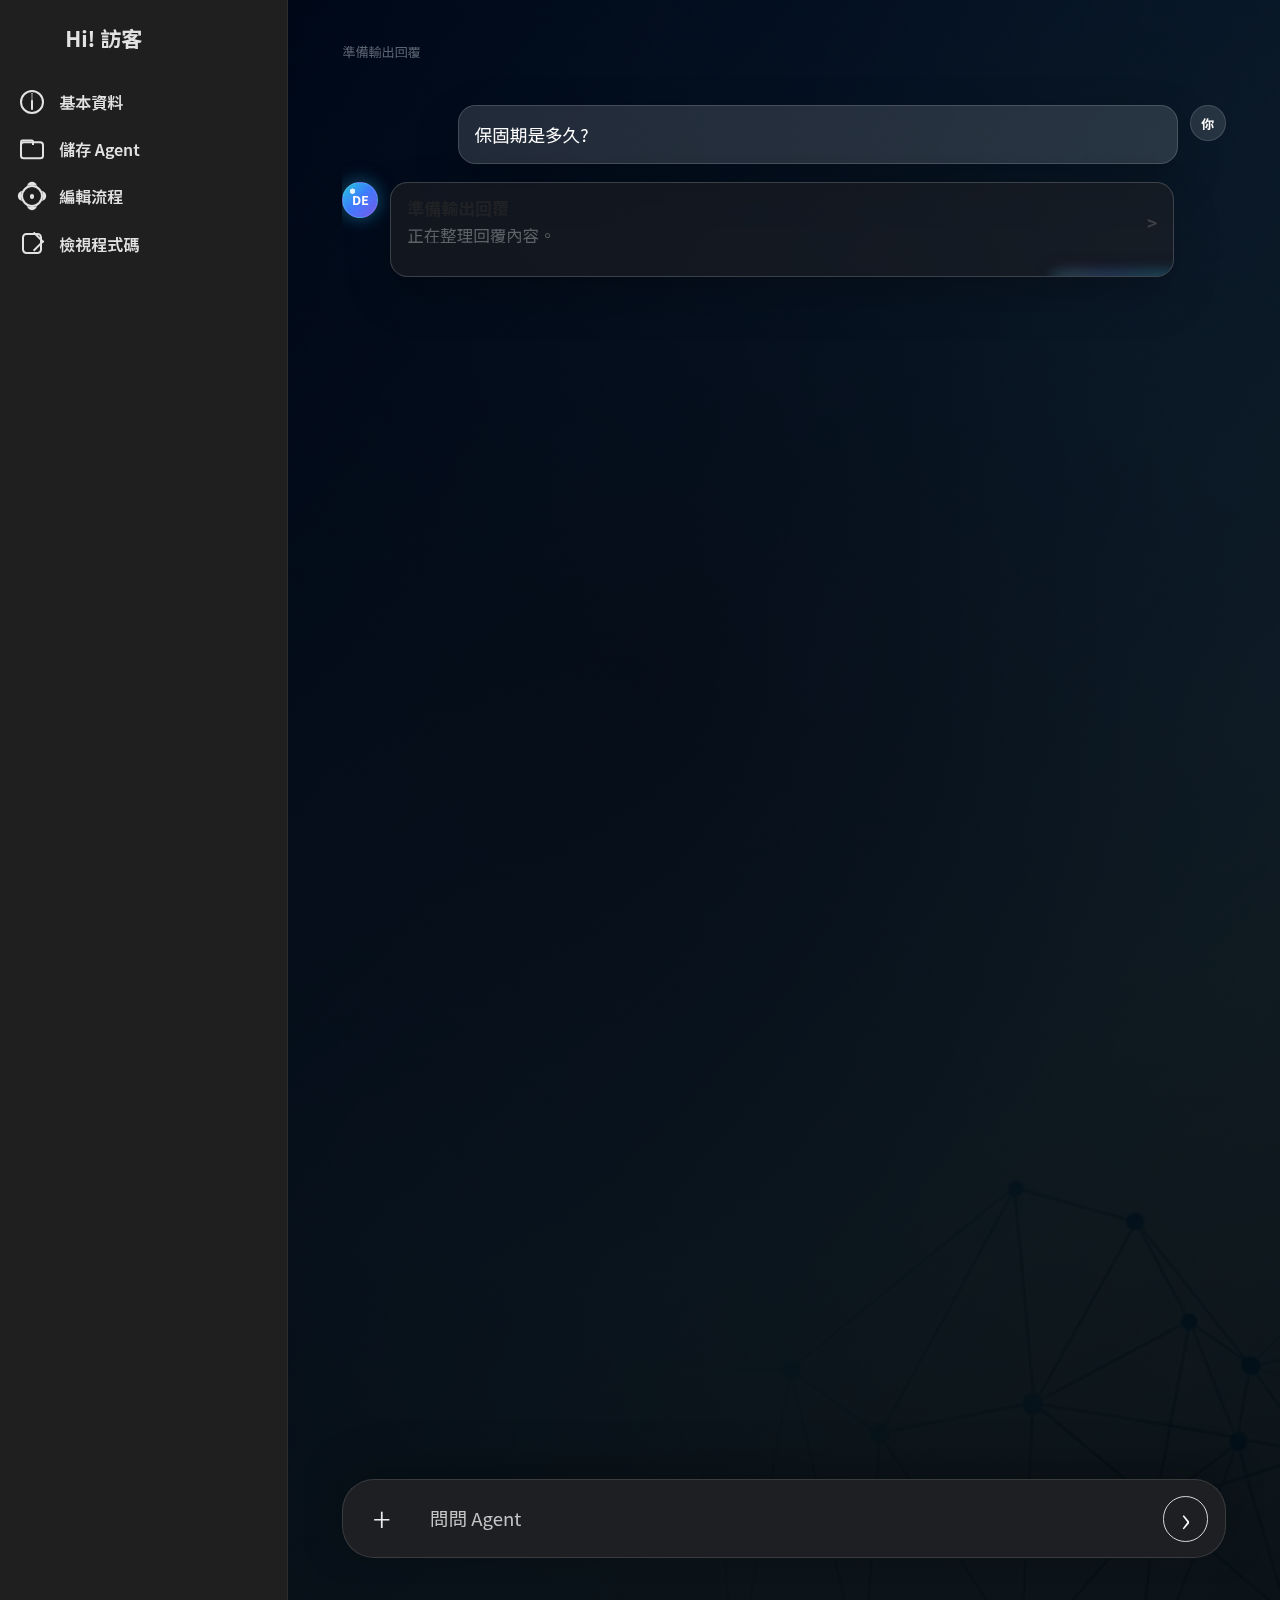
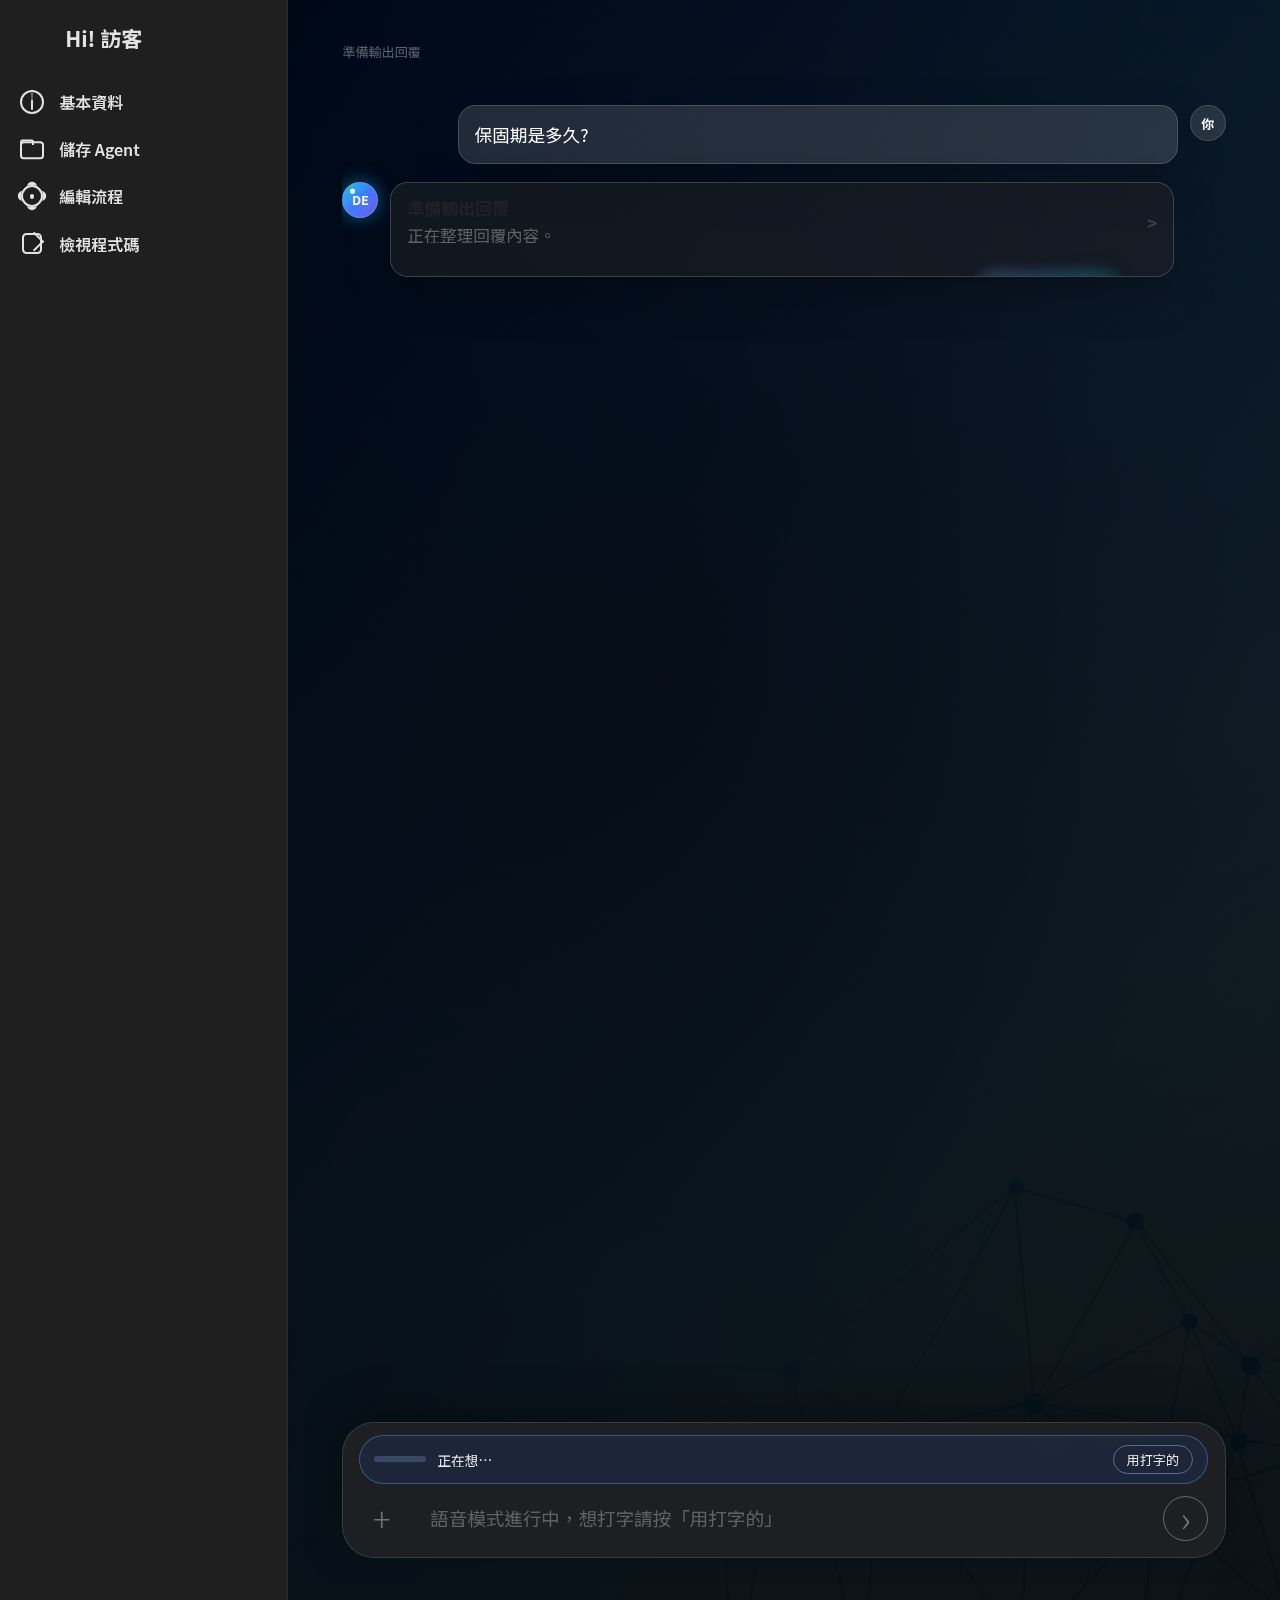
Show the person that the page is listening, and never both at once
The runner looked exactly like a text agent: the composer said 問問 Agent and
the microphone was live behind it, so nothing told anyone the feature existed
and nothing stopped a typed message racing a spoken one.

Following the shape of advanced voice: voice is a mode with a visible state,
not a toggle. A bar inside the composer names what is happening — 聆聽中,
正在想…, 回答中 · 開口就能打斷, 好，我停下來聽你說 — with a level meter that
moves with the person's voice, which is how they tell a working microphone
from a stalled one. While it is live the typing row is dimmed and disabled;
用打字的 pauses the microphone and hands the keyboard back, 回到語音 returns.

A pause holds in both directions and only resume leaves it, so a late reply
cannot reopen the microphone while someone is halfway through typing.

Changed region(s): [[0.2812, 0.875, 0.9688, 0.9688], [0.875, 0.1562, 0.9062, 0.1875], [0.7812, 0.1562, 0.8125, 0.1875]]

diff --git a/playground/static/js/runner/voice-conversation.js b/playground/static/js/runner/voice-conversation.js
@@ -16,7 +16,7 @@ const TRANSCRIBE_SAMPLE_RATE = 16000;
 const SYNTHESIS_SAMPLE_RATE = 24000;
 const FRAME_SAMPLES = 1024;
 
-export function bindVoiceConversation(page, { onTranscript, onStatus }) {
+export function bindVoiceConversation(page, { onTranscript, onStatus, onState, onLevel }) {
 	if (page?.dataset.voice !== "true") {
 		return null;
 	}
@@ -27,10 +27,25 @@ export function bindVoiceConversation(page, { onTranscript, onStatus }) {
 		playing: [],
 		playheadAt: 0,
 		startedSpeakingAt: 0,
+		state: "starting",
+		paused: false,
 		carry: new Uint8Array(0),
 	};
 
 	const say = (message) => onStatus?.(message);
+	const enter = (state, detail) => {
+		if (session.paused && state !== "paused") {
+			// Only resume() leaves a pause. Anything else — a late reply, an
+			// answer finishing — would put the microphone back without the
+			// person asking, while they are halfway through typing.
+			return;
+		}
+		// One place decides what the page is showing, because a voice agent
+		// with no visible state is indistinguishable from one that is broken:
+		// the person talks, nothing happens, and nothing says why.
+		session.state = state;
+		onState?.(state, detail);
+	};
 
 	function open() {
 		const scheme = window.location.protocol === "https:" ? "wss:" : "ws:";
@@ -43,21 +58,41 @@ export function bindVoiceConversation(page, { onTranscript, onStatus }) {
 			}
 			handle(JSON.parse(event.data));
 		});
-		socket.addEventListener("close", () => say("語音連線結束了。重新整理頁面可以再開始。"));
+		socket.addEventListener("close", () => enter("closed"));
 		session.socket = socket;
 	}
 
 	function handle(message) {
+		if (session.paused && (message.type === "speech_started" || message.type === "transcript")) {
+			// Audio already in flight when the microphone was paused. Acting on
+			// it would start a turn the person did not ask for, from the middle
+			// of a sentence they abandoned.
+			return;
+		}
 		if (message.type === "speech_started") {
 			// The service heard someone begin, before it knows what they said.
+			const wasSpeaking = session.playing.length > 0;
 			stopPlaying();
+			enter(wasSpeaking ? "interrupted" : "listening");
 			return;
 		}
 		if (message.type === "transcript" && message.text) {
+			enter("heard", message.text);
 			onTranscript?.(message.text);
 			return;
 		}
-		if (message.type === "unavailable" || message.type === "nothing_to_interrupt") {
+		if (message.type === "spoken") {
+			if (!session.playing.length) {
+				enter("listening");
+			}
+			return;
+		}
+		if (message.type === "unavailable") {
+			enter("unavailable", message.message);
+			say(message.message);
+			return;
+		}
+		if (message.type === "nothing_to_interrupt") {
 			say(message.message);
 		}
 	}
@@ -69,6 +104,7 @@ export function bindVoiceConversation(page, { onTranscript, onStatus }) {
 		} catch (error) {
 			// A refusal and a missing microphone look the same from here: in both
 			// cases the page would otherwise just sit there being silent.
+			enter("denied");
 			say("這個 Agent 要用麥克風才能聽你說話。請在瀏覽器的網址列允許麥克風權限，然後重新整理頁面。你也可以直接打字。");
 			return;
 		}
@@ -94,19 +130,40 @@ export function bindVoiceConversation(page, { onTranscript, onStatus }) {
 		});
 		source.connect(meter);
 		meter.connect(context.destination);
-		say("可以開始說話了。");
+		enter("listening");
 	}
 
 	function send(samples, sampleRate) {
-		if (session.socket?.readyState !== WebSocket.OPEN) {
+		// Reported whether or not it is sent, so a paused microphone still shows
+		// the person that the page can hear them — the meter is how they tell a
+		// pause from a failure.
+		onLevel?.(loudness(samples));
+		if (session.paused || session.socket?.readyState !== WebSocket.OPEN) {
 			return;
 		}
 		session.socket.send(toServiceAudio(samples, sampleRate));
 	}
 
+	function pause() {
+		// Typing and talking must never both be live: two inputs racing produce
+		// two turns for one question, and the person sees the agent answer
+		// something they were still in the middle of saying.
+		session.paused = true;
+		stopPlaying();
+		enter("paused");
+	}
+
+	function resume() {
+		session.paused = false;
+		session.carry = new Uint8Array(0);
+		enter("listening");
+	}
+
 	function play(audio) {
 		const context = session.context;
-		if (!context) {
+		// Paused means paused in both directions. An answer that keeps talking
+		// after someone switched to the keyboard is the agent ignoring them.
+		if (!context || session.paused) {
 			return;
 		}
 		// A frame off the socket is a slice of a stream, not a whole number of
@@ -138,6 +195,7 @@ export function bindVoiceConversation(page, { onTranscript, onStatus }) {
 		const startAt = Math.max(context.currentTime, session.playheadAt);
 		if (!session.playing.length) {
 			session.startedSpeakingAt = startAt;
+			enter("speaking");
 		}
 		piece.start(startAt);
 		session.playheadAt = startAt + buffer.duration;
@@ -174,7 +232,16 @@ export function bindVoiceConversation(page, { onTranscript, onStatus }) {
 	// microphone attached.
 	listen();
 
-	return { sessionId: session.id, speak, stopPlaying };
+	return { sessionId: session.id, speak, stopPlaying, pause, resume, enter };
+}
+
+/** How loud a frame is, on the same 0-1 scale the microphone reports. */
+export function loudness(samples) {
+	let total = 0;
+	for (let index = 0; index < samples.length; index += 1) {
+		total += samples[index] * samples[index];
+	}
+	return samples.length ? Math.sqrt(total / samples.length) : 0;
 }
 
 /** Resample to the rate the transcription service takes, as 16-bit mono. */

diff --git a/playground/static/js/runner/runner-page.js b/playground/static/js/runner/runner-page.js
@@ -978,15 +978,77 @@ bindInputComposer(form, async (payload) => {
 	await runWorkflow({ ...payload, voice_session_id: voice?.sessionId || "" });
 }, { clearAttachments: () => attachmentPicker?.clear() });
 
+const voiceBar = document.querySelector("[data-voice-bar]");
+const voiceStateText = document.querySelector("[data-voice-state-text]");
+const voiceLevel = document.querySelector("[data-voice-level]");
+const voiceSwitch = document.querySelector("[data-voice-switch]");
+
+const VOICE_STATES = {
+	starting: "正在開啟麥克風…",
+	listening: "聆聽中，直接開口就好",
+	heard: "聽到了",
+	thinking: "正在想…",
+	speaking: "回答中 · 開口就能打斷",
+	interrupted: "好，我停下來聽你說",
+	paused: "麥克風已暫停 · 現在用鍵盤",
+	denied: "需要麥克風權限才能聽你說話",
+	unavailable: "這個 Playground 還沒有語音服務",
+	closed: "語音連線結束了，重新整理可以再開始",
+};
+
+function showVoiceState(state, detail) {
+	if (!voiceBar) {
+		return;
+	}
+	voiceBar.dataset.voiceState = state;
+	if (voiceStateText) {
+		voiceStateText.textContent = state === "heard" && detail ? `聽到了：「${detail}」` : VOICE_STATES[state] || state;
+	}
+	if (voiceSwitch) {
+		voiceSwitch.textContent = state === "paused" ? "回到語音" : "用打字的";
+		voiceSwitch.hidden = state === "denied" || state === "unavailable" || state === "closed";
+	}
+	// Exactly one input is live at a time. Two of them racing produces two
+	// turns for one question, and the agent answers something the person was
+	// still in the middle of saying.
+	const typing = state === "paused" || state === "denied" || state === "unavailable" || state === "closed";
+	runnerPage?.classList.toggle("is-voice-live", !typing);
+	if (messageInput) {
+		messageInput.disabled = !typing;
+		messageInput.placeholder = typing ? "問問 Agent" : "語音模式進行中，想打字請按「用打字的」";
+	}
+	if (submitButton) {
+		submitButton.disabled = !typing;
+	}
+}
+
 const voice = bindVoiceConversation(runnerPage, {
 	onTranscript: (text) => {
 		runWorkflow({ message: text, voice_session_id: voice?.sessionId || "" });
+		voice?.enter("thinking");
 	},
 	onStatus: (message) => {
 		if (runStatus) {
 			runStatus.textContent = message;
 		}
 	},
+	onState: showVoiceState,
+	onLevel: (level) => {
+		if (voiceLevel) {
+			// Scaled so ordinary speech fills most of the bar; the point is to
+			// show that something is being heard, not to be a meter.
+			voiceLevel.style.transform = `scaleX(${Math.min(1, level * 6).toFixed(3)})`;
+		}
+	},
+});
+
+voiceSwitch?.addEventListener("click", () => {
+	if (voiceBar?.dataset.voiceState === "paused") {
+		voice?.resume();
+		return;
+	}
+	voice?.pause();
+	messageInput?.focus();
 });
 
 starterQuestions?.addEventListener("click", (event) => {

diff --git a/playground/static/css/app.css b/playground/static/css/app.css
@@ -2807,6 +2807,75 @@ a { color: inherit; text-decoration: none; }
   font-weight: 700;
 }
 
+.voice-bar {
+  display: flex;
+  align-items: center;
+  gap: 0.7rem;
+  margin: 0 0 0.5rem;
+  padding: 0.55rem 0.9rem;
+  border: 1px solid rgba(120, 170, 255, 0.35);
+  border-radius: 999px;
+  background: rgba(30, 60, 110, 0.28);
+  font-size: 0.86rem;
+}
+
+.voice-orb {
+  position: relative;
+  flex: 0 0 auto;
+  width: 3.2rem;
+  height: 0.4rem;
+  overflow: hidden;
+  border-radius: 999px;
+  background: rgba(140, 180, 240, 0.25);
+}
+
+.voice-orb i {
+  display: block;
+  width: 100%;
+  height: 100%;
+  border-radius: 999px;
+  background: #6fb2ff;
+  transform: scaleX(0);
+  transform-origin: left center;
+  transition: transform 90ms linear;
+}
+
+.voice-state {
+  flex: 1 1 auto;
+}
+
+.voice-switch {
+  flex: 0 0 auto;
+  padding: 0.25rem 0.8rem;
+  border: 1px solid rgba(140, 180, 240, 0.5);
+  border-radius: 999px;
+  background: transparent;
+  color: inherit;
+  cursor: pointer;
+  font-size: 0.82rem;
+}
+
+/* Speaking and being interrupted are the two states a person needs to read at
+   a glance, so they are the two that change colour. */
+.voice-bar[data-voice-state="speaking"] { border-color: rgba(120, 220, 180, 0.6); }
+.voice-bar[data-voice-state="interrupted"] { border-color: rgba(255, 200, 120, 0.7); }
+.voice-bar[data-voice-state="paused"] { opacity: 0.6; }
+.voice-bar[data-voice-state="denied"],
+.voice-bar[data-voice-state="unavailable"] { border-color: rgba(255, 140, 140, 0.7); }
+
+/* One input at a time: while the microphone is live the typing row is not.
+   Only that row — the voice bar sits inside the composer and its button has to
+   stay clickable, since it is the way back to the keyboard. */
+.runner-page.is-voice-live .composer-main-row,
+.runner-page.is-voice-live .composer-attachment-preview {
+  opacity: 0.4;
+  pointer-events: none;
+}
+
+.voice-bar + label {
+  margin-top: 0.1rem;
+}
+
 .runner-status {
   margin: 0 0 0.4rem;
   min-height: 1.1rem;

diff --git a/playground/templates/runner.html b/playground/templates/runner.html
@@ -109,6 +109,13 @@
 
       <p class="runner-status" data-run-status role="status" aria-live="polite"></p>
       <form class="input-composer chat-composer" data-input-composer>
+        {% if uses_voice %}
+        <div class="voice-bar" data-voice-bar data-voice-state="starting">
+          <span class="voice-orb" data-voice-orb aria-hidden="true"><i data-voice-level></i></span>
+          <span class="voice-state" data-voice-state-text role="status" aria-live="polite">正在開啟麥克風…</span>
+          <button class="voice-switch" type="button" data-voice-switch>用打字的</button>
+        </div>
+        {% endif %}
         <label for="runner-message">輸入訊息</label>
         <div class="composer-attachment-preview" data-artifact-list aria-label="已選擇的參考資料"></div>
         <div class="composer-main-row">

diff --git a/tests/test_voice_builder.py b/tests/test_voice_builder.py
@@ -116,3 +116,41 @@ def test_every_deployment_a_voice_agent_needs_is_offered_on_the_page():
 
     missing = sorted(role for role in needed if f"{role}:" not in table)
     assert missing == [], f"這些角色在畫面上沒有對應的選單：{missing}"
+
+
+def test_a_voice_agent_says_on_the_page_that_it_is_listening():
+    """Without this the page is a text agent with a hidden microphone.
+
+    Two things depend on it being visible: the person can tell whether it is
+    hearing them, and the keyboard and the microphone are never both live —
+    two inputs racing produce two turns for one question.
+    """
+    from playground.app import create_app
+
+    app = create_app()
+    app.config.update(TESTING=True)
+
+    with app.test_client() as client:
+        for step, choice in [("input_type", "voice"), ("output_format", "voice")]:
+            client.post("/playground/builder/state", json={"step": step, "choice": choice})
+        page = client.get("/playground/run").get_data(as_text=True)
+
+    assert "data-voice-bar" in page
+    assert "data-voice-switch" in page
+    # Inside the composer, so the two inputs are one control and cannot drift
+    # apart on the page.
+    composer = page[page.index("data-input-composer") :]
+    assert composer.index("data-voice-bar") < composer.index("runner-message")
+
+
+def test_a_typing_agent_gets_no_voice_bar():
+    from playground.app import create_app
+
+    app = create_app()
+    app.config.update(TESTING=True)
+
+    with app.test_client() as client:
+        client.post("/playground/builder/state", json={"step": "output_format", "choice": "direct"})
+        page = client.get("/playground/run").get_data(as_text=True)
+
+    assert "data-voice-bar" not in page

diff --git a/spikes/realtime-interjection/walk_the_seam.py b/spikes/realtime-interjection/walk_the_seam.py
@@ -206,14 +206,30 @@ async def main() -> int:
             await asyncio.sleep(5)
             await browser.shoot("runner-listening")
 
+            seen_states = []
             for second in range(40):
                 await asyncio.sleep(1)
+                state = await browser.evaluate(
+                    "document.querySelector('[data-voice-bar]')?.dataset.voiceState + '|'"
+                    " + (document.querySelector('[data-voice-state-text]')?.textContent || '')"
+                    " + ' | init=' + (document.querySelector('[data-initialization-message]')?.textContent || '')"
+                    " + ' | overlay=' + document.querySelector('[data-initialization-overlay]')?.hidden"
+                )
+                if not seen_states or seen_states[-1] != state:
+                    seen_states.append(state)
+                    print(f"  {second:>2}s 語音列: {state}")
                 if second == 9:
                     await browser.shoot("heard-the-question")
                 if second == 16:
                     await browser.shoot("answering-aloud")
-                if second == 30:
+                if second == 26:
                     await browser.shoot("after-the-interruption")
+                if second == 32:
+                    await browser.evaluate(
+                        "document.querySelector('[data-voice-switch]')?.click() || true"
+                    )
+                    await asyncio.sleep(1)
+                    await browser.shoot("switched-to-typing")
 
             state = await browser.evaluate(
                 "({status: document.querySelector('[data-run-status]')?.textContent || '',"
